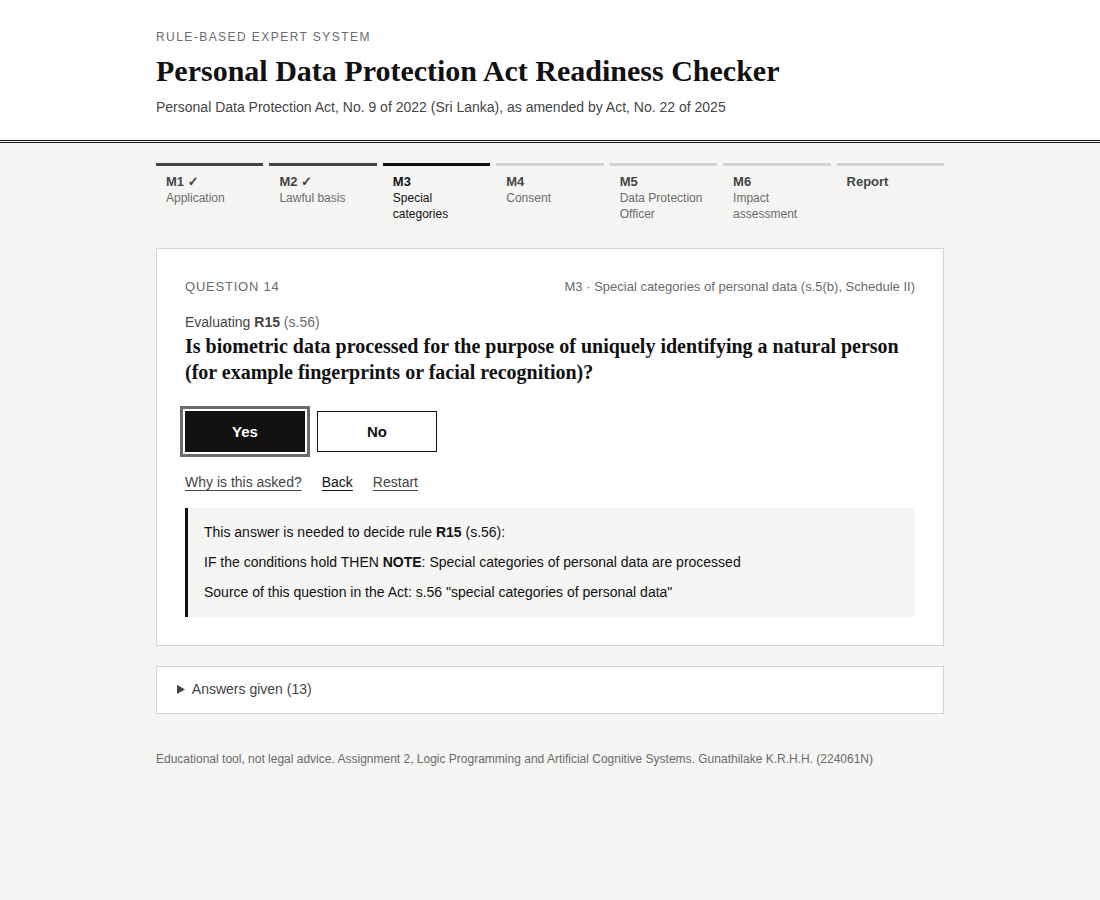
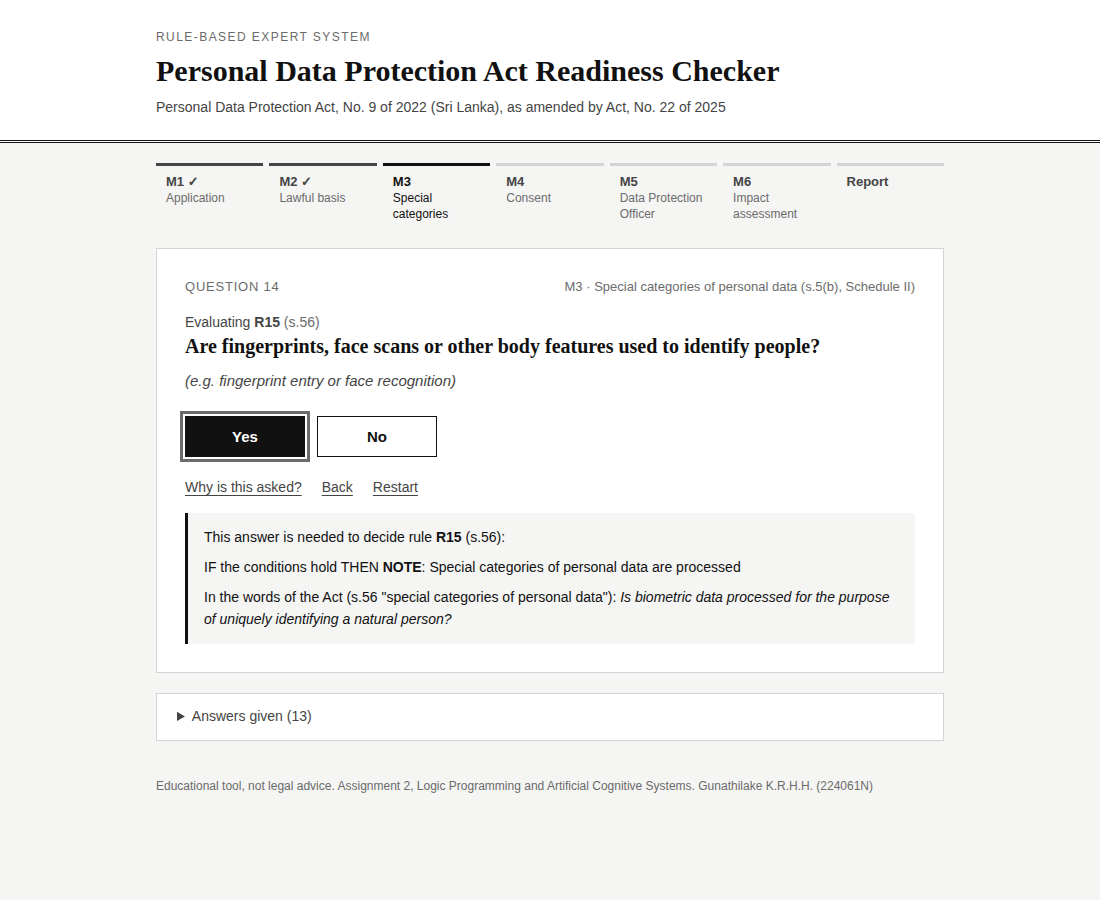
Update sample session, screenshots and README for the new questions

diff --git a/README.md b/README.md
@@ -191,15 +191,16 @@ consent.
 **Command-line interface:** part of the session:
 
 ```
-Q14 [M3, R15] Is biometric data processed for the purpose of uniquely
-  identifying a natural person (for example fingerprints or facial
-  recognition)?
+Q14 [M3, R15] Are fingerprints, face scans or other body features used to
+  identify people?
+  (e.g. fingerprint entry or face recognition)
   (yes / no / why) > why
   This answer is needed to decide rule R15 (s.56):
     IF the conditions hold THEN NOTE: Special categories of personal data
       are processed
-  Source of this question in the Act: s.56 "special categories of personal
-    data"
+  In the words of the Act (s.56 "special categories of personal data"): Is
+    biometric data processed for the purpose of uniquely identifying a
+    natural person?
   (yes / no / why) > yes
 ```
 
